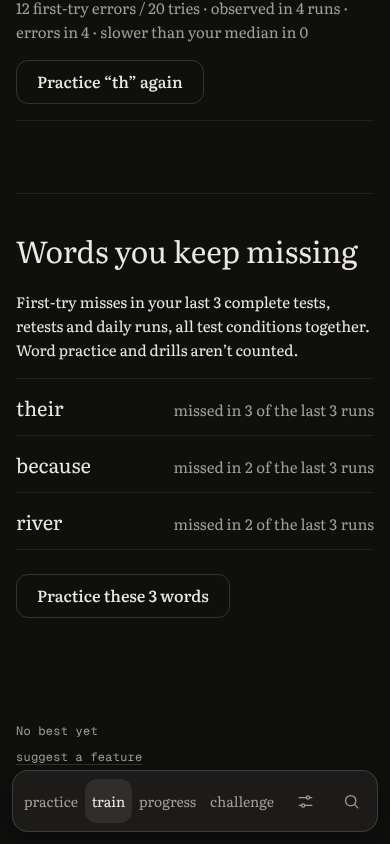
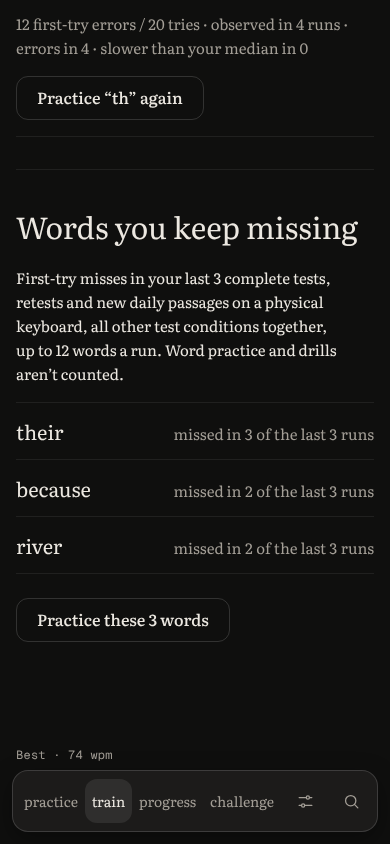
Keep missed words on the newest 120 counted runs, per input class
Drills and word practice no longer push counted runs out of the stored window; touch runs stand
alone; clearing history drops the practised words; the note names the 12-word cap and new dailies.

Claude-Session: https://claude.ai/code/session_01SaBNo9RHRaTR8cCUjK1iLD

diff --git a/e2e/missed-words-list.spec.js b/e2e/missed-words-list.spec.js
@@ -1,4 +1,4 @@
-import { CORPUS_VERSION, METRIC_VERSION, completeAttempt, createAttempt } from '../src/typing.js';
+import { CORPUS_VERSION, METRIC_VERSION, completeAttempt, conditionKey, createAttempt } from '../src/typing.js';
 import { runRecord } from '../src/insights.js';
 import { test, expect, openApp, openView, passageText, typeInto, signInWithEmail } from './fixtures.js';
 
@@ -65,13 +65,13 @@ test('words missed across runs build a list in Training that starts an uncounted
     const wpm = Number(await page.locator('#result-wpm').textContent());
     expect(wpm).toBeGreaterThanOrEqual(40);
     expect(wpm).toBeLessThanOrEqual(110);
-    if (runs === 1) await expect(page.locator('#missed-words-note')).toHaveText(/^Not enough evidence yet: one run counted so far\./);
+    if (runs === 1) await expect(page.locator('#missed-words-note')).toHaveText(/^Not enough evidence yet: one run on a physical keyboard counted so far\./);
   }
 
   // Training is the results screen: the list sits below the recurring patterns.
   await openView(page, 'Train');
   const note = page.locator('#missed-words-note');
-  await expect(note).toHaveText(`First-try misses in your last ${runs} complete tests, retests and daily runs, all test conditions together. Word practice and drills aren’t counted.`);
+  await expect(note).toHaveText(`First-try misses in your last ${runs} complete tests, retests and new daily passages on a physical keyboard, all other test conditions together, up to 12 words a run. Word practice and drills aren’t counted.`);
   const rows = await listRows(page);
   expect(rows.length).toBe(Math.min(8, recurring().length));
   for (const [word, copy] of rows) expect(copy).toBe(`missed in ${tally.get(word)} of the last ${runs} runs`);
@@ -80,6 +80,14 @@ test('words missed across runs build a list in Training that starts an uncounted
   expect(counts).toEqual([...counts].sort((a, b) => b - a));
   const action = page.locator('#practice-missed-list');
   await expect(action).toHaveText(`Practice these ${rows.length} words`);
+  // The run card's own word practice is on screen too, so the names tell the two apart.
+  await expect(action).toHaveAccessibleName(`Practice these ${rows.length} words you keep missing`);
+  await expect(page.locator('#practice-words')).toBeVisible();
+  await expect(page.locator('#practice-words')).not.toHaveAccessibleName(/keep missing/);
+  // One hairline and 32px between the two sections, not the column's grid gap on top.
+  const patternsEnd = await page.locator('section.training-memory').first().evaluate((node) => node.getBoundingClientRect().bottom);
+  const listTop = await page.locator('section.missed-words').evaluate((node) => node.getBoundingClientRect().top);
+  expect(listTop - patternsEnd).toBe(0);
 
   // The list below the end of the recurring patterns, with the run card beside it.
   await page.evaluate(() => window.scrollTo(0, document.querySelector('section.missed-words').getBoundingClientRect().top + window.scrollY - 240));
@@ -156,16 +164,23 @@ test('signed in, the list rides the synced run summaries, starts from the palett
   // An older summary saved before missed words were recorded, and a practice run: neither counts.
   const { missedWords, ...legacy } = runRecord(trace('old', day(4), ['their', 'house']));
   const practice = { ...runRecord(trace('practice', day(1), ['house', 'garden'], 'missed')), missedWords: ['house', 'garden'] };
-  supabase.profiles.set(user.id, { data: { version: 2, preferences: {}, attempts: traces,
-    runs: [legacy, ...traces.map((t) => runRecord(t)), practice], loops: [], seenTextIds: traces.map((t) => t.textId), bests: {},
+  // Settings and a best that match the seeded 25-word runs, as that person's account would hold.
+  const top = traces.map((t) => runRecord(t)).reduce((a, b) => (b.score.wpm > a.score.wpm ? b : a));
+  const bests = { [conditionKey(conditions)]: { wpm: top.score.wpm, attemptId: top.id, at: top.at } };
+  supabase.profiles.set(user.id, { data: { version: 2, preferences: { mode: 'words', count: 25, wordList: '1k' }, attempts: traces,
+    runs: [legacy, ...traces.map((t) => runRecord(t)), practice], loops: [], seenTextIds: traces.map((t) => t.textId), bests,
     updatedAt: new Date(Date.now() - 60000).toISOString() } });
   expect(missedWords).toEqual(['their', 'house']);
+  expect(top.score.wpm).toBeGreaterThanOrEqual(40);
+  expect(top.score.wpm).toBeLessThanOrEqual(110);
 
   await openApp(page);
   await signInWithEmail(page, user.email);
   await openView(page, 'Train');
   const expected = [['their', 'missed in 3 of the last 3 runs'], ['because', 'missed in 2 of the last 3 runs'], ['river', 'missed in 2 of the last 3 runs']];
   expect(await listRows(page)).toEqual(expected);
+  const best = `Best · ${top.score.wpm} wpm`;
+  await expect(page.locator('#best')).toHaveText(best);
 
   // The mobile layout: rows stack within the column, no sideways scroll.
   await page.setViewportSize({ width: 390, height: 844 });
@@ -191,21 +206,39 @@ test('signed in, the list rides the synced run summaries, starts from the palett
   // With no run in this tab, the newest retained run is the retest baseline.
   await expect(page.locator('#recommendation-meta')).toHaveText('About 1 min, then a fresh 25-word retest.');
   await expect(page.locator('#skip-to-retest')).toBeEnabled();
-  await expect(page.locator('#best')).toHaveText('No best yet');
+  // Faster than the seeded runs, and still out of bests: the best and its stored record are unchanged.
+  await expect(page.locator('#best')).toHaveText(best);
 
   // Persisted on the account: a reload shows the same list, unchanged by the practice run.
   await expect.poll(() => supabase.profileFor(user.email)?.runs.length).toBe(6);
+  expect(supabase.profileFor(user.email).bests).toEqual(bests);
   await page.reload();
   await expect(page.locator('#account')).toHaveAttribute('data-sync', 'synced');
   await openView(page, 'Train');
   expect(await listRows(page)).toEqual(expected);
 
-  await openView(page, 'Progress');
-  await page.locator('#clear-history').click();
-  await page.locator('#confirm-clear-input').fill('clear');
-  await page.locator('#confirm-clear').click();
+  const clear = async () => {
+    await openView(page, 'Progress');
+    await page.locator('#clear-history').click();
+    await page.locator('#confirm-clear-input').fill('clear');
+    await page.locator('#confirm-clear').click();
+  };
+  // Start the practice, then clear history before typing it; Undo brings the list back.
+  await page.locator('#practice-missed-list').click();
+  await expect(page.locator('#session-title')).toHaveText('Practice words you keep missing');
+  await clear();
+  await page.locator('#undo-clear').click();
+  await openView(page, 'Train');
+  expect(await listRows(page)).toEqual(expected);
+
+  await clear();
   await openView(page, 'Train');
   await expect(page.locator('#missed-words-note')).toHaveText(/^Not enough evidence yet: no runs counted so far\./);
   await expect(page.locator('#missed-words-list')).toBeHidden();
   await expect(page.locator('#practice-missed-list')).toBeHidden();
+  // The cleared words are gone from Run again too: it starts a normal test.
+  await page.locator('#run-again').click();
+  await expect(page.locator('#typing-screen')).toHaveAttribute('data-session', 'practice');
+  await expect(page.locator('#session-title')).not.toHaveText('Practice words you keep missing');
+  expect((await passageText(page)).split(' ')).toHaveLength(25);
 });

diff --git a/tests/insights.test.js b/tests/insights.test.js
@@ -238,18 +238,35 @@ test('runs pattern memory leaves out record no missed words', () => {
   missing({ kind: 'daily', fresh: false }); // a daily passage shown before
 });
 
-test('missed words stay only on the newest 120 summaries, and trimmed ones are no evidence', () => {
+test('missed words stay only on the newest 120 counted summaries, and trimmed ones are no evidence', () => {
   const runs = Array.from({ length: 130 }, (_, i) => run(String(i), { missedWords: ['the'] }));
-  const practice = run('practice', { kind: 'missed' });
+  // A practice run never counts, so it neither keeps the field nor takes a counted run's place.
+  const practice = run('practice', { kind: 'missed', missedWords: ['the'] });
   delete practice.patterns;
   const kept = retainRuns([...runs, practice]);
-  assert.equal(kept.filter((r) => 'missedWords' in r).length, 119);
+  assert.equal(kept.filter((r) => 'missedWords' in r).length, 120);
   // Dropped, not emptied: an empty list would read as a clean run.
   assert.equal('missedWords' in kept[0], false);
+  assert.equal('missedWords' in kept[9], false);
+  assert.deepEqual(kept[10].missedWords, ['the']);
+  // Pattern counts still go by position among all summaries.
   assert.deepEqual(kept[0].patterns, []);
+  assert.deepEqual(kept[10].patterns, []);
+  assert.deepEqual(kept[11].patterns, runs[11].patterns);
   assert.equal('patterns' in kept.at(-1), false);
+  assert.equal('missedWords' in kept.at(-1), false);
   assert.deepEqual(kept.at(-2).missedWords, ['the']);
   assert.deepEqual(retainRuns(kept), kept);
+});
+
+test('drills and word practice between counted runs never push them out of the stored window', () => {
+  // 100 counted tests, then 100 drills and practice runs: all 100 tests keep their missed words.
+  const tests = Array.from({ length: 100 }, (_, i) => run(`t${i}`, { missedWords: [i % 2 ? 'odd' : 'even'] }));
+  const uncounted = Array.from({ length: 100 }, (_, i) => run(`u${i}`, { kind: i % 2 ? 'drill' : 'missed', interrupted: i % 5 === 0 }));
+  const kept = retainRuns([...tests, ...uncounted]);
+  assert.equal(kept.filter((r) => 'missedWords' in r).length, 100);
+  assert.equal(recurringMissedWords(kept).runs, 100);
+  assert.deepEqual(recurringMissedWords(kept).words.map((w) => [w.word, w.runs]), [['odd', 50], ['even', 50]]);
 });
 
 const missedRun = (id, missedWords, overrides = {}) => run(id, { missedWords, ...overrides });
@@ -257,9 +274,9 @@ const missedRun = (id, missedWords, overrides = {}) => run(id, { missedWords, ..
 test('words you keep missing need two runs and rank by runs missed in, then the latest miss', () => {
   // Legacy summaries without the field normalise to no evidence: not counted at all.
   const legacy = run('legacy');
-  assert.deepEqual(recurringMissedWords([legacy, legacy]), { runs: 0, recurring: 0, words: [] });
+  assert.deepEqual(recurringMissedWords([legacy, legacy]), { runs: 0, inputClass: 'physical-keyboard', recurring: 0, words: [] });
   // One run is never enough, however often the word was missed in it.
-  assert.deepEqual(recurringMissedWords([legacy, missedRun('a', ['the', 'the', 'and'])]), { runs: 1, recurring: 0, words: [] });
+  assert.deepEqual(recurringMissedWords([legacy, missedRun('a', ['the', 'the', 'and'])]), { runs: 1, inputClass: 'physical-keyboard', recurring: 0, words: [] });
 
   const runs = [
     missedRun('a', ['they', 'there']),
@@ -286,24 +303,39 @@ test('word practice, drills, interruptions and repeat daily text never feed the 
   const both = (id, overrides = {}) => missedRun(id, ['the', 'and'], overrides);
   const excluded = [both('m', { kind: 'missed' }), both('d', { kind: 'drill' }), both('i', { interrupted: true }),
     both('s', { status: 'interrupted' }), both('r', { kind: 'race' }), both('p', { kind: 'daily', fresh: false })];
-  assert.deepEqual(recurringMissedWords([...excluded, both('only')]), { runs: 1, recurring: 0, words: [] });
+  assert.deepEqual(recurringMissedWords([...excluded, both('only')]), { runs: 1, inputClass: 'physical-keyboard', recurring: 0, words: [] });
   const counted = recurringMissedWords([both('fresh-daily', { kind: 'daily' }), both('retest', { kind: 'retest' })]);
   assert.deepEqual(counted.words.map((w) => [w.word, w.runs]), [['and', 2], ['the', 2]]);
 });
 
-test('the list counts only the newest 120 counted runs, across all test conditions', () => {
+test('the list counts only the newest 120 counted runs, across all other test conditions', () => {
   const quote = { ...conditions, mode: 'quote', count: null, wordList: null, correctionPolicy: 'relaxed' };
   const runs = [
     missedRun('old-1', ['gone']), missedRun('old-2', ['gone']),
     ...Array.from({ length: 120 }, (_, i) => missedRun(`new-${i}`, [i % 2 ? 'odd' : 'even'], { conditions: i % 3 ? conditions : quote })),
-    // Uncounted runs after them don't push counted runs out of the window.
+    // Uncounted runs after them don't push counted runs out of the window, as stored either.
     ...Array.from({ length: 5 }, (_, i) => missedRun(`drill-${i}`, ['gone'], { kind: 'drill' })),
   ];
-  const result = recurringMissedWords(runs);
-  assert.equal(result.runs, 120);
-  assert.deepEqual(result.words.map((w) => [w.word, w.runs]), [['odd', 60], ['even', 60]]);
+  for (const result of [recurringMissedWords(runs), recurringMissedWords(retainRuns(runs))]) {
+    assert.equal(result.runs, 120);
+    assert.deepEqual(result.words.map((w) => [w.word, w.runs]), [['odd', 60], ['even', 60]]);
+  }
   // At most eight rows by default; `recurring` still says how many qualified.
   const wide = [missedRun('w1', [...'abcdefghij']), missedRun('w2', [...'abcdefghij'])];
   assert.equal(recurringMissedWords(wide).words.length, 8);
   assert.equal(recurringMissedWords(wide).recurring, 10);
+});
+
+test('touch runs are never pooled with physical-keyboard runs: the newest run picks the input', () => {
+  const touch = { ...conditions, inputClass: 'touch' };
+  const keyboard = { ...conditions, inputClass: 'physical-keyboard' };
+  const keys = [missedRun('k1', ['the'], { conditions: keyboard }), missedRun('k2', ['the', 'and'], { conditions: keyboard }), missedRun('k3', ['and'])];
+  const tally = (runs) => { const result = recurringMissedWords(runs); return [result.inputClass, result.runs, result.words.map((w) => [w.word, w.runs])]; };
+  // A run without the field counts as a physical keyboard, the default.
+  assert.deepEqual(tally(keys), ['physical-keyboard', 3, [['and', 2], ['the', 2]]]);
+  // One touch miss of "the" after them doesn't make a third, and touch stands alone.
+  assert.deepEqual(tally([...keys, missedRun('t1', ['the'], { conditions: touch })]), ['touch', 1, []]);
+  assert.deepEqual(tally([...keys, missedRun('t1', ['the'], { conditions: touch }), missedRun('t2', ['the', 'of'], { conditions: touch })]), ['touch', 2, [['the', 2]]]);
+  // Back on a keyboard, the keyboard runs count again, without the touch misses.
+  assert.deepEqual(tally([...keys, missedRun('t1', ['the'], { conditions: touch }), missedRun('k4', ['of'], { conditions: keyboard })]), ['physical-keyboard', 4, [['and', 2], ['the', 2]]]);
 });

diff --git a/src/app.js b/src/app.js
@@ -23,7 +23,7 @@ import * as account from './account.js';
 import { createOnlineRace } from './online-race.js';
 import { createInbox } from './inbox.js';
 import { listRaceInvites } from './multiplayer.js';
-import { dailyPassage, filterRuns, missedAndSlowWords, practiceWordsPassage, recurringMissedWords, recurringTargets, retainRuns, runRecord, trendRun, validRun, weeklyChange } from './insights.js';
+import { MAX_MISSED_WORDS, dailyPassage, filterRuns, missedAndSlowWords, practiceWordsPassage, recurringMissedWords, recurringTargets, retainRuns, runRecord, trendRun, validRun, weeklyChange } from './insights.js';
 import { renderTrend } from './progress-view.js';
 
 const MAX_STORED_ATTEMPTS = 24;
@@ -470,7 +470,9 @@ function resetSession(kind = sessionKind, { focus = false, selectedPassage = nul
   ticker = null;
   setRunning(false);
   primaryNotice = '';
-  sessionKind = kind;
+  // Word practice whose words were cleared with history falls back to a normal test.
+  sessionKind = kind === 'missed' && !wordsPassage ? 'practice' : kind;
+  kind = sessionKind;
   passage = selectedPassage || (kind === 'missed' ? wordsPassage : kind === 'daily' ? todayPassage() : kind === 'drill' ? makeDrill(selectedTarget, prefs.wordList) : choosePassage(kind === 'retest' && baselineAttempt ? [baselineAttempt.textId] : []));
   if (kind === 'retest' && passage?.fresh === false) {
     showUnavailableRetest('You’ve seen every matching quote. Pick another quote filter or a word test, then run a new baseline.');
@@ -1180,13 +1182,14 @@ function renderTraining() {
 
 // Words missed on the first try in two or more recent counted runs, with what was counted.
 function renderMissedWords() {
-  const { runs, recurring, words } = recurringMissedWords(profile.runs);
+  const { runs, inputClass, recurring, words } = recurringMissedWords(profile.runs);
   const enough = words.length >= 2;
+  const input = inputClass === 'touch' ? 'touch input' : 'a physical keyboard';
   $('missed-words-note').textContent = enough
-    ? `First-try misses in your last ${runs} complete tests, retests and daily runs, all test conditions together. Word practice and drills aren’t counted.`
+    ? `First-try misses in your last ${runs} complete tests, retests and new daily passages on ${input}, all other test conditions together, up to ${MAX_MISSED_WORDS} words a run. Word practice and drills aren’t counted.`
     : runs < 2
-      ? `Not enough evidence yet: ${runs ? 'one run' : 'no runs'} counted so far. A word shows here once you miss it on the first try in two complete tests, retests or daily runs.`
-      : `Not enough evidence yet: ${recurring ? `only ${wordCopy(words[0].word)} was missed on the first try in more than one of your last ${runs} runs (in ${words[0].runs})` : `no word was missed on the first try in more than one of your last ${runs} runs`}. The list starts at two such words.`;
+      ? `Not enough evidence yet: ${runs ? `one run on ${input}` : 'no runs'} counted so far. A word shows here once you miss it on the first try in two complete tests, retests or new daily passages.`
+      : `Not enough evidence yet: ${recurring ? `only ${wordCopy(words[0].word)} was missed on the first try in more than one of your last ${runs} runs on ${input} (in ${words[0].runs})` : `no word was missed on the first try in more than one of your last ${runs} runs on ${input}`}. The list starts at two such words.`;
   $('missed-words-list').replaceChildren(...(enough ? words : []).map((item) => {
     const row = element('li', '', 'missed-word');
     row.append(element('span', wordCopy(item.word), 'missed-word-text'), element('span', `missed in ${item.runs} of the last ${runs} runs`, 'num'));
@@ -1195,6 +1198,8 @@ function renderMissedWords() {
   $('missed-words-list').hidden = !enough;
   $('practice-missed-list').hidden = !enough;
   $('practice-missed-list').textContent = `Practice these ${words.length} words`;
+  // The run card can offer "Practice these N words" too, so the name says which words these are.
+  $('practice-missed-list').setAttribute('aria-label', `Practice these ${words.length} words you keep missing`);
 }
 
 function renderHistory() {
@@ -1439,6 +1444,8 @@ function clearHistory() {
   trainingContext = null;
   selectedTarget = null;
   activeRecommendation = null;
+  // The practised words came from the cleared runs, so Run again starts a normal test.
+  wordsPassage = null;
   for (const id of ['result-wpm', 'result-accuracy', 'result-errors', 'result-time']) $(id).textContent = '—';
   $('result-delta').textContent = 'No run yet.';
   $('result-comparison-note').textContent = '';

diff --git a/src/insights.js b/src/insights.js
@@ -26,14 +26,20 @@ export function runRecord(attempt, at = attempt.at || null) {
   return record;
 }
 
-// Pattern counts and missed words stay only on the newest 120 summaries, so the profile stays small.
+// Pattern counts stay only on the newest 120 summaries, and missed words only on the newest 120 runs
+// the list counts, so the profile stays small. Counting those from the end means word practice and
+// drills between them never push counted runs out of the list's window.
 export function retainRuns(runs) {
   const kept = runs.slice(-MAX_RUN_SUMMARIES);
+  const keepWords = new Set();
+  for (let i = kept.length - 1; i >= 0 && keepWords.size < MAX_PATTERN_RUNS; i -= 1) if (missedWordsRun(kept[i])) keepWords.add(i);
   return kept.map((run, i) => {
-    if (i >= kept.length - MAX_PATTERN_RUNS || (!run.patterns && !run.missedWords)) return run;
-    // Drop the field rather than empty it: an empty list would read as a run with no misses.
-    const { missedWords, ...older } = run;
-    return run.patterns ? { ...older, patterns: [] } : older;
+    const trimPatterns = i < kept.length - MAX_PATTERN_RUNS && run.patterns;
+    const trimWords = 'missedWords' in run && !keepWords.has(i);
+    if (!trimPatterns && !trimWords) return run;
+    // Drop missed words rather than empty them: an empty list would read as a run with no misses.
+    const { missedWords, ...rest } = run;
+    return { ...(trimWords ? rest : run), ...(trimPatterns ? { patterns: [] } : {}) };
   });
 }
 
@@ -43,6 +49,9 @@ export const trendRun = (run) => validRun(run) && ['test', 'retest'].includes(ru
 // shown before. Drills, word practice, races and interrupted runs are left out.
 export const patternRun = (run) => validRun(run) && ['test', 'retest', 'daily'].includes(run.kind)
   && (run.kind !== 'daily' || run.fresh !== false);
+// The runs "words you keep missing" counts: those pattern memory reads that recorded missed words.
+const missedWordsRun = (run) => patternRun(run) && Array.isArray(run.missedWords);
+const inputClassOf = (run) => run?.conditions?.inputClass || 'physical-keyboard';
 
 export function filterRuns(runs, key, days = 'all', date = new Date()) {
   const cutoff = days === 'all' ? null : date.getTime() - Number(days) * 86400000;
@@ -102,11 +111,14 @@ export function recurringTargets(runs, loops, compatibleConditions) {
 }
 
 // Words missed on the first try in at least two of the newest 120 runs that recorded missed words,
-// across all test conditions. `runs` is how many runs were counted, so a row can say "missed in 3
-// of the last 41 runs". Ranked by the number of runs missed in, then the most recent miss (by run
-// order, since older summaries can lack a date).
+// on one input class (the newest such run's: touch is never pooled with a physical keyboard) and
+// across all other test conditions. `runs` is how many runs were counted, so a row can say "missed
+// in 3 of the last 41 runs". Ranked by the number of runs missed in, then the most recent miss (by
+// run order, since older summaries can lack a date).
 export function recurringMissedWords(runs, limit = 8) {
-  const counted = runs.filter((run) => patternRun(run) && Array.isArray(run.missedWords)).slice(-MAX_PATTERN_RUNS);
+  const recent = runs.filter(missedWordsRun).slice(-MAX_PATTERN_RUNS);
+  const inputClass = inputClassOf(recent.at(-1));
+  const counted = recent.filter((run) => inputClassOf(run) === inputClass);
   const words = new Map();
   counted.forEach((run, index) => {
     for (const word of new Set(run.missedWords)) {
@@ -118,7 +130,7 @@ export function recurringMissedWords(runs, limit = 8) {
   });
   const recurring = [...words.values()].filter((item) => item.runs >= 2)
     .sort((a, b) => b.runs - a.runs || b.lastIndex - a.lastIndex || a.word.localeCompare(b.word));
-  return { runs: counted.length, recurring: recurring.length, words: recurring.slice(0, limit) };
+  return { runs: counted.length, inputClass, recurring: recurring.length, words: recurring.slice(0, limit) };
 }
 
 // Stable UTC selection from a frozen text pool: preferences and seen history never change it.

diff --git a/index.html b/index.html
@@ -290,20 +290,23 @@
                 <p id="manual-target-error" class="field-error" role="alert"></p>
               </form>
             </details>
-            <section class="training-memory" aria-labelledby="training-memory-heading">
-              <h2 id="training-memory-heading">Patterns across runs</h2>
-              <label class="filter-field" for="training-conditions">Test conditions
-                <select id="training-conditions" class="input"></select>
-              </label>
-              <p id="training-memory-note" class="result-note"></p>
-              <div id="training-targets"></div>
-            </section>
-            <section class="training-memory missed-words" aria-labelledby="missed-words-heading">
-              <h2 id="missed-words-heading">Words you keep missing</h2>
-              <p id="missed-words-note" class="result-note"></p>
-              <ol id="missed-words-list" class="missed-words-list" hidden></ol>
-              <button id="practice-missed-list" class="btn btn-secondary" type="button" data-action="practice-missed-list" hidden>Practice these words</button>
-            </section>
+            <!-- Block flow, so the grid gap doesn't sit between the two: one hairline and 32px. -->
+            <div>
+              <section class="training-memory" aria-labelledby="training-memory-heading">
+                <h2 id="training-memory-heading">Patterns across runs</h2>
+                <label class="filter-field" for="training-conditions">Test conditions
+                  <select id="training-conditions" class="input"></select>
+                </label>
+                <p id="training-memory-note" class="result-note"></p>
+                <div id="training-targets"></div>
+              </section>
+              <section class="training-memory missed-words" aria-labelledby="missed-words-heading">
+                <h2 id="missed-words-heading">Words you keep missing</h2>
+                <p id="missed-words-note" class="result-note"></p>
+                <ol id="missed-words-list" class="missed-words-list" hidden></ol>
+                <button id="practice-missed-list" class="btn btn-secondary" type="button" data-action="practice-missed-list" hidden>Practice these words</button>
+              </section>
+            </div>
           </div>
         </div>
       </section>

diff --git a/docs/ui-contract.md b/docs/ui-contract.md
@@ -49,7 +49,7 @@ Recommendation IDs are `recommendation-title`, `recommendation-evidence`, `recom
 
 `#recommendation-evidence` must name observed evidence (error count and/or timing against the user's own median). When evidence is insufficient, say so directly and offer a general drill. `#recommendation-meta` states approximate drill time and that the retest uses a fresh comparable passage. Never render a confident weak-pattern claim without recorded observations.
 
-Below the recurring patterns, `section.missed-words` lists the words you keep missing: `#missed-words-note` names what was counted (the newest counted runs that recorded missed words, up to 120: complete tests, retests and daily runs, the runs pattern memory reads, so never word practice, drills, interrupted runs or a daily passage shown before), or says plainly that there isn't enough evidence yet and how much there is. With two or more words missed on the first try in at least two of those runs, `ol#missed-words-list` shows up to 8 (`li.missed-word`: the word, then "missed in N of the last M runs") and `#practice-missed-list` (also the palette command "practice words you keep missing") starts the same uncounted `missed` run with those words.
+Below the recurring patterns, `section.missed-words` lists the words you keep missing: `#missed-words-note` names what was counted (the newest counted runs that recorded missed words, up to 120 and up to 12 words each: complete tests, retests and new daily passages, the runs pattern memory reads, so never word practice, drills, interrupted runs or a daily passage shown before; only those on the newest such run's input class, since touch is never pooled with a physical keyboard), or says plainly that there isn't enough evidence yet and how much there is. With two or more words missed on the first try in at least two of those runs, `ol#missed-words-list` shows up to 8 (`li.missed-word`: the word, then "missed in N of the last M runs") and `#practice-missed-list` (accessible name "Practice these N words you keep missing", apart from the run card's button; also the palette command "practice words you keep missing") starts the same uncounted `missed` run with those words. Clearing history empties the list, and Run again after it starts a normal test.
 
 The manual target lives in `details.manual-panel` (summary `#manual-heading`): `#manual-target` form, `#manual-target-input`, and `#apply-manual-target`. It accepts a short letter pair or word. Validation appears in `#manual-target-error`; invalid state uses `aria-invalid="true"` and visible recovery copy.
 

diff --git a/PRODUCT.md b/PRODUCT.md
@@ -46,7 +46,7 @@ This is stated in the research as a hypothesis about usability and learning, not
 - Corpus v5: 39 original quotes, at least three in each length/difficulty bucket, plus expanded real-word targeted drills. Difficulty labels remain descriptive, not calibrated.
 - Condition-aware personal bests, guarded history deletion with immediate undo, explicit insufficient-evidence and interrupted states.
 - Native HTML/CSS/JS modules with no runtime dependencies. `npm run dev` serves on :5173; `npm test` runs the engine checks. Literata (OFL, `src/fonts/OFL-literata.txt`) and Geist Mono are self-hosted in `src/fonts/`.
-- Signed-in retention: newest 24 full attempt traces, 1,000 compact run summaries and pattern counts on the newest 120 summaries; comparison summaries remain until cleared. Clear/Undo includes daily history. Guests retain everything only in memory for the tab. Older records keep unknown dates and missing score snapshots explicit.
+- Signed-in retention: newest 24 full attempt traces, 1,000 compact run summaries, pattern counts on the newest 120 summaries and first-try missed words (up to 12 a run) on the newest 120 runs that count toward "words you keep missing"; comparison summaries remain until cleared. Clear/Undo includes daily history. Guests retain everything only in memory for the tab. Older records keep unknown dates and missing score snapshots explicit.
 - `src/typing.js` owns corpus selection, scoring, replay and pattern evidence; `src/app.js` owns UI orchestration and local persistence.
 
 **Metric contract** (versioned before any data collection):
